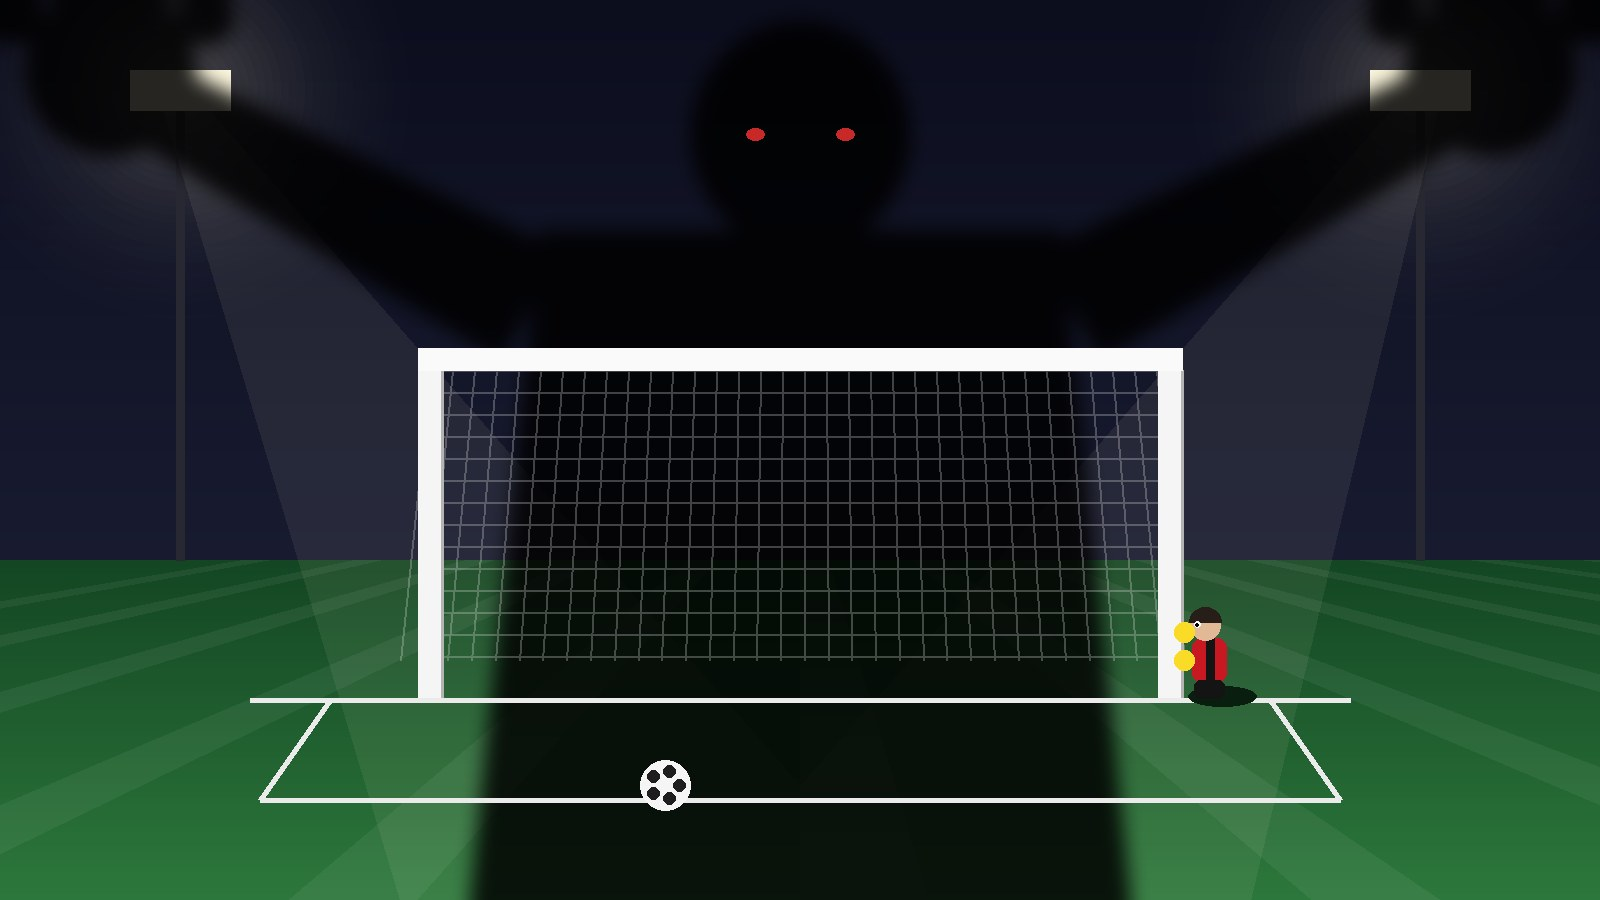
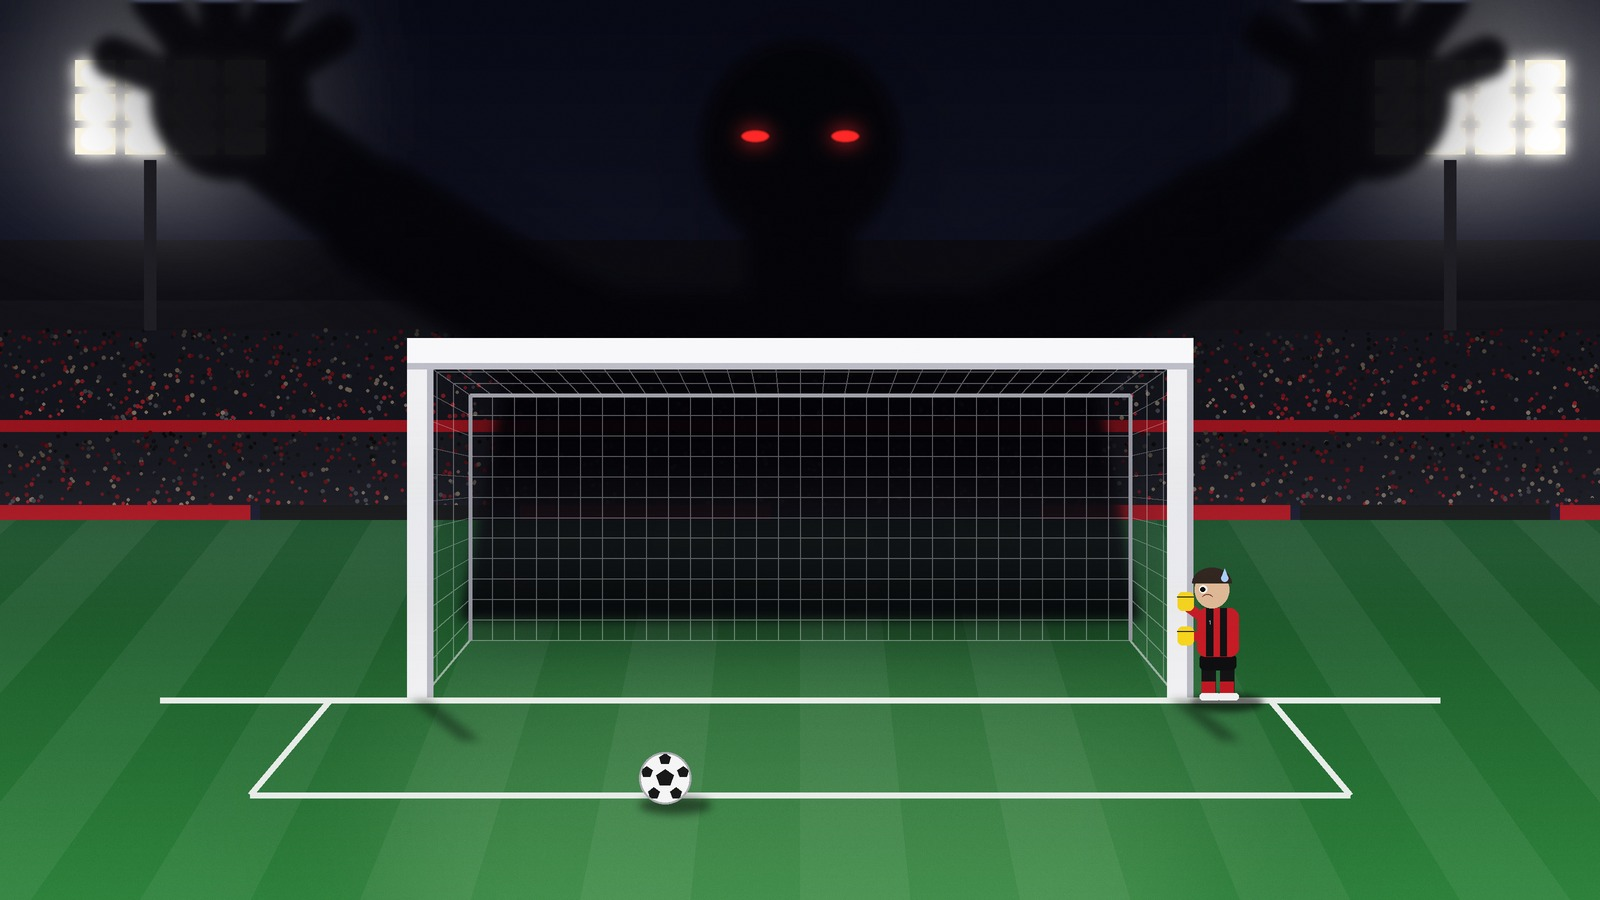
Новость 17: обложка качественнее — стадион, глубина ворот, тень с перчатками
Claude-Session: https://claude.ai/code/session_01K5QUXj8aqaDtBSdZ1D9aa3

diff --git a/index.html b/index.html
@@ -10,7 +10,7 @@
   <link rel="preconnect" href="https://fonts.googleapis.com">
   <link rel="preconnect" href="https://fonts.gstatic.com" crossorigin>
   <link rel="stylesheet" href="https://fonts.googleapis.com/css2?family=Manrope:wght@400;600;700;800&family=Unbounded:wght@600;800&display=swap">
-  <link rel="stylesheet" href="css/style.css?v=202611132200">
+  <link rel="stylesheet" href="css/style.css?v=202611132230">
 </head>
 <body>
   <header class="header">
@@ -35,11 +35,11 @@
     </div>
   </footer>
 
-  <script src="js/data.js?v=202611132200"></script>
-  <script src="js/comments.js?v=202611132200"></script>
-  <script src="js/posts.js?v=202611132200"></script>
-  <script src="js/firebase-config.js?v=202611132200"></script>
-  <script src="js/live-comments.js?v=202611132200"></script>
-  <script src="js/main.js?v=202611132200"></script>
+  <script src="js/data.js?v=202611132230"></script>
+  <script src="js/comments.js?v=202611132230"></script>
+  <script src="js/posts.js?v=202611132230"></script>
+  <script src="js/firebase-config.js?v=202611132230"></script>
+  <script src="js/live-comments.js?v=202611132230"></script>
+  <script src="js/main.js?v=202611132230"></script>
 </body>
 </html>
